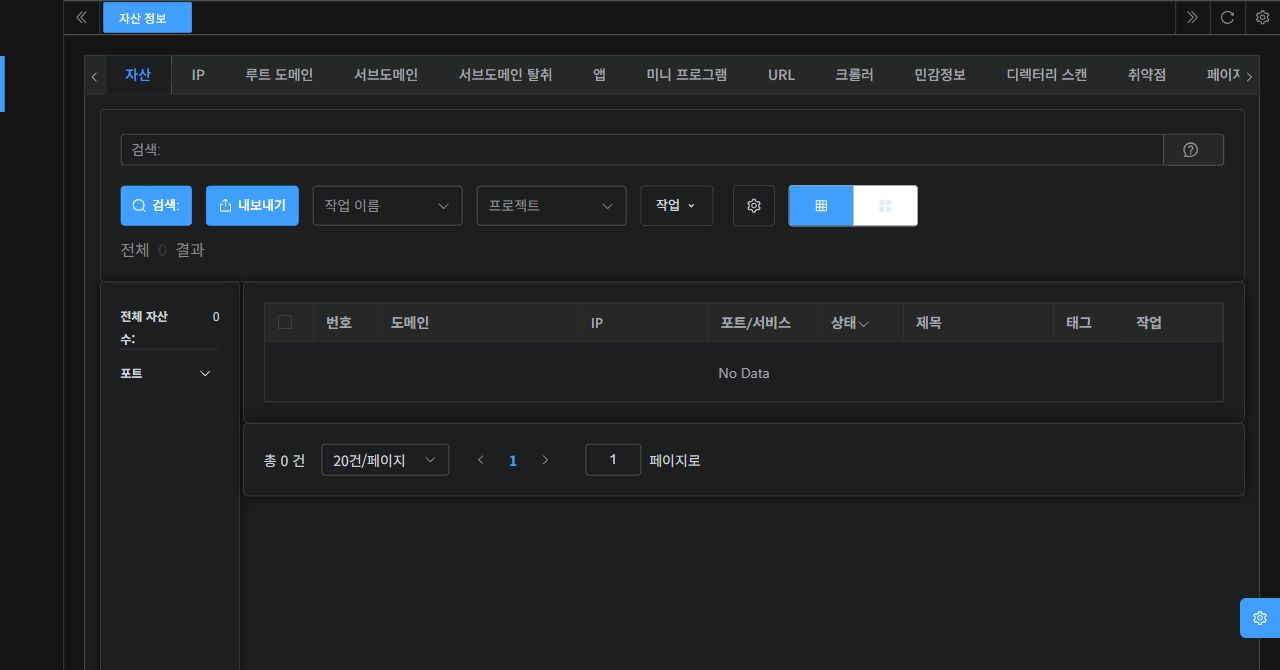
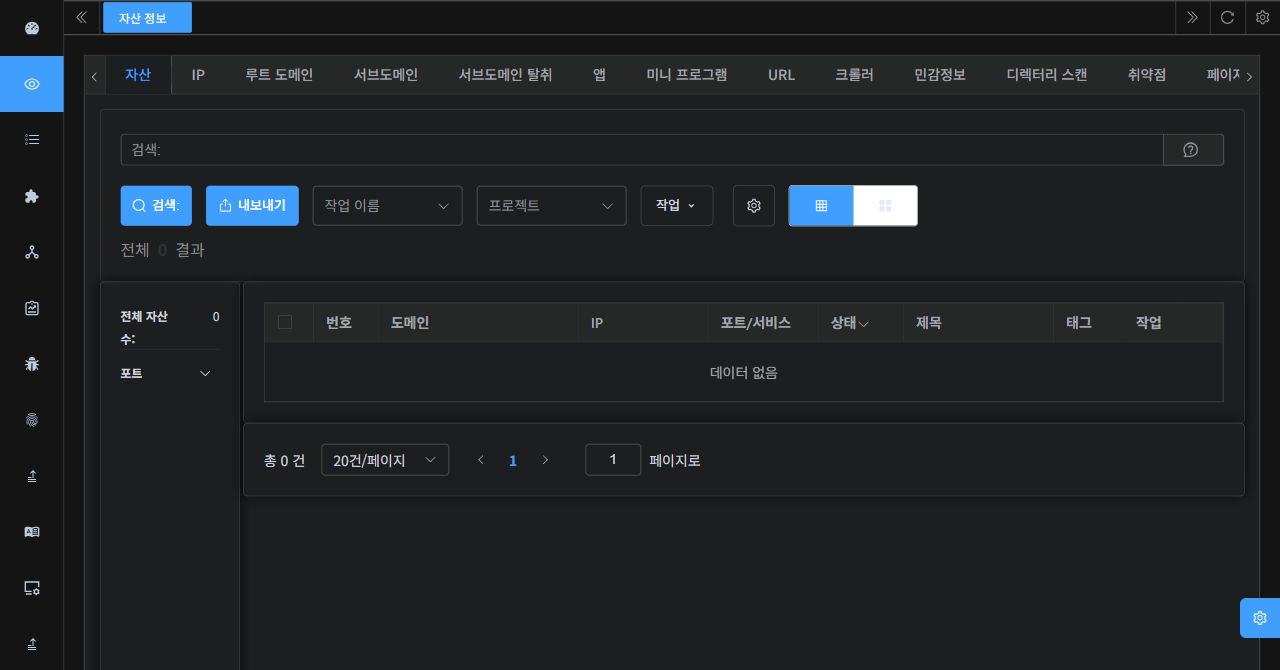
fix(i18n): refine Korean UI translations and layout

diff --git a/frontend/src/views/Project/Project.vue b/frontend/src/views/Project/Project.vue
@@ -99,14 +99,14 @@ const selectedRowIds = ref([])
 
 <template>
   <ContentWrap>
-    <ElRow style="margin-bottom: 20px" :gutter="20">
+    <ElRow class="locale-search-row" style="margin-bottom: 20px">
       <ElCol :span="0.5">
-        <ElText class="mx-1" style="position: relative; top: 8px">{{ t('form.input') }}:</ElText>
+        <ElText class="mx-1">{{ t('common.search') }}:</ElText>
       </ElCol>
       <ElCol :span="5">
         <ElInput v-model="search" :placeholder="t('common.inputText')" style="height: 38px" />
       </ElCol>
-      <ElCol :span="5" style="position: relative; left: 16px">
+      <ElCol :span="5">
         <ElButton
           :loading="loading"
           type="primary"
@@ -117,7 +117,7 @@ const selectedRowIds = ref([])
         />
       </ElCol>
     </ElRow>
-    <ElRow style="margin-bottom: 0%">
+    <ElRow class="locale-actions-row" style="margin-bottom: 0%">
       <ElCol :span="2">
         <div class="mb-10px">
           <ElButton type="primary" @click="addProject">{{ t('project.addProject') }}</ElButton>
@@ -130,8 +130,8 @@ const selectedRowIds = ref([])
               v-model="multipleSelection"
               class="mb-2"
               inline-prompt
-              active-text="Yes"
-              inactive-text="No"
+              :active-text="t('common.on')"
+              :inactive-text="t('common.off')"
             />
           </ElFormItem>
         </ElForm>
@@ -153,7 +153,7 @@ const selectedRowIds = ref([])
       </ElCol>
     </ElRow>
     <ElTabs class="demo-tabs" v-loading="projectListLoading">
-      <ElTabPane :label="`All (${tagNum['All']})`"
+      <ElTabPane :label="`${t('common.all')} (${tagNum['All']})`"
         ><ProjectList
           :tableDataList="allProjectData['All']"
           :getProjectTag="getProjectTag"
@@ -195,4 +195,25 @@ const selectedRowIds = ref([])
   font-size: 32px;
   font-weight: 600;
 }
+</style>
+
+<style scoped>
+.locale-search-row {
+  align-items: center;
+  gap: 12px;
+}
+.locale-search-row > .el-col {
+  flex: 0 0 auto;
+  width: auto;
+  max-width: 100%;
+}
+.locale-search-row > .el-col:nth-child(2) {
+  flex: 0 1 260px;
+  min-width: 0;
+}
+.locale-search-row .el-text {
+  white-space: nowrap;
+}
+.locale-actions-row { align-items: center; gap: 16px; }
+.locale-actions-row > .el-col { flex: 0 0 auto; width: auto; max-width: 100%; }
 </style>

diff --git a/frontend/src/views/Plugins/components/ServerPlugin.vue b/frontend/src/views/Plugins/components/ServerPlugin.vue
@@ -644,22 +644,22 @@ const handleFileChange = (_file, fileList) => {
 
 <template>
   <ContentWrap>
-    <ElRow>
+    <ElRow class="locale-search-row">
       <ElCol :span="1">
-        <ElText class="mx-1" style="position: relative; top: 8px">{{ t('plugin.name') }}:</ElText>
+        <ElText class="mx-1">{{ t('plugin.name') }}:</ElText>
       </ElCol>
       <ElCol :span="5">
         <ElInput v-model="search" :placeholder="t('common.inputText')" style="height: 38px" />
       </ElCol>
-      <ElCol :span="5" style="position: relative; left: 16px">
+      <ElCol :span="5">
         <ElButton type="primary" :icon="searchicon" style="height: 100%" @click="handleSearch"
           >{{ t('common.search') }}</ElButton
         >
       </ElCol>
-      <ElCol :span="1" style="position: relative; left: 32px">
-        <ElText class="mx-1" style="position: relative; top: 8px">{{ t('plugin.key') }}:</ElText>
+      <ElCol :span="1">
+        <ElText class="mx-1">{{ t('plugin.key') }}:</ElText>
       </ElCol>
-      <ElCol :span="5" style="position: relative; left: 32px">
+      <ElCol :span="5">
         <ElInput
           v-model="pluginKey"
           :placeholder="t('plugin.key')"
@@ -851,5 +851,25 @@ const handleFileChange = (_file, fileList) => {
   color: #000;
   padding: 2px 4px;
   border-radius: 2px;
+}
+</style>
+
+<style scoped>
+.locale-search-row {
+  align-items: center;
+  gap: 12px;
+}
+.locale-search-row > .el-col {
+  flex: 0 0 auto;
+  width: auto;
+  max-width: 100%;
+}
+.locale-search-row > .el-col:nth-child(2),
+.locale-search-row > .el-col:nth-child(5) {
+  flex: 0 1 260px;
+  min-width: 0;
+}
+.locale-search-row .el-text {
+  white-space: nowrap;
 }
 </style>

diff --git a/frontend/src/views/Plugins/components/ClientPlugin.vue b/frontend/src/views/Plugins/components/ClientPlugin.vue
@@ -481,22 +481,22 @@ defineExpose({
 
 <template>
   <ContentWrap>
-    <ElRow>
+    <ElRow class="locale-search-row">
       <ElCol :span="1">
-        <ElText class="mx-1" style="position: relative; top: 8px">{{ t('plugin.name') }}:</ElText>
+        <ElText class="mx-1">{{ t('plugin.name') }}:</ElText>
       </ElCol>
       <ElCol :span="5">
         <ElInput v-model="search" :placeholder="t('common.inputText')" style="height: 38px" />
       </ElCol>
-      <ElCol :span="5" style="position: relative; left: 16px">
+      <ElCol :span="5">
         <ElButton type="primary" :icon="searchicon" style="height: 100%" @click="handleSearch"
           >{{ t('common.search') }}</ElButton
         >
       </ElCol>
-      <ElCol :span="1" style="position: relative; left: 32px">
-        <ElText class="mx-1" style="position: relative; top: 8px">{{ t('plugin.key') }}:</ElText>
+      <ElCol :span="1">
+        <ElText class="mx-1">{{ t('plugin.key') }}:</ElText>
       </ElCol>
-      <ElCol :span="5" style="position: relative; left: 32px">
+      <ElCol :span="5">
         <ElInput
           v-model="pluginKey"
           :placeholder="t('plugin.key')"
@@ -691,3 +691,23 @@ defineExpose({
 </template>
 
 <style scoped lang="less"></style>
+
+<style scoped>
+.locale-search-row {
+  align-items: center;
+  gap: 12px;
+}
+.locale-search-row > .el-col {
+  flex: 0 0 auto;
+  width: auto;
+  max-width: 100%;
+}
+.locale-search-row > .el-col:nth-child(2),
+.locale-search-row > .el-col:nth-child(5) {
+  flex: 0 1 260px;
+  min-width: 0;
+}
+.locale-search-row .el-text {
+  white-space: nowrap;
+}
+</style>

diff --git a/frontend/src/views/Dashboard/components/PanelGroup.vue b/frontend/src/views/Dashboard/components/PanelGroup.vue
@@ -41,7 +41,7 @@ getCount()
 
 <template>
   <ElRow justify="space-between" :class="prefixCls" :gutter="20">
-    <ElCol :span="5">
+    <ElCol :xs="24" :sm="12" :md="8" :lg="5">
       <ElCard shadow="hover" class="mb-20px">
         <ElSkeleton :loading="loading" animated :rows="2">
           <template #default>
@@ -70,7 +70,7 @@ getCount()
       </ElCard>
     </ElCol>
 
-    <ElCol :span="5">
+    <ElCol :xs="24" :sm="12" :md="8" :lg="5">
       <ElCard shadow="hover" class="mb-20px">
         <ElSkeleton :loading="loading" animated :rows="2">
           <template #default>
@@ -99,7 +99,7 @@ getCount()
       </ElCard>
     </ElCol>
 
-    <ElCol :span="5">
+    <ElCol :xs="24" :sm="12" :md="8" :lg="5">
       <ElCard shadow="hover" class="mb-20px">
         <ElSkeleton :loading="loading" animated :rows="2">
           <template #default>
@@ -128,7 +128,7 @@ getCount()
       </ElCard>
     </ElCol>
 
-    <ElCol :span="5">
+    <ElCol :xs="24" :sm="12" :md="8" :lg="5">
       <ElCard shadow="hover" class="mb-20px">
         <ElSkeleton :loading="loading" animated :rows="2">
           <template #default>
@@ -156,7 +156,7 @@ getCount()
         </ElSkeleton>
       </ElCard>
     </ElCol>
-    <ElCol :span="4">
+    <ElCol :xs="24" :sm="12" :md="8" :lg="4">
       <ElCard shadow="hover" class="mb-20px">
         <ElSkeleton :loading="loading" animated :rows="2">
           <template #default>

diff --git a/frontend/src/views/Task/Task.vue b/frontend/src/views/Task/Task.vue
@@ -527,14 +527,14 @@ const setMaxHeight = () => {
 
 <template>
   <ContentWrap>
-    <ElRow>
+    <ElRow class="locale-search-row">
       <ElCol :span="1">
-        <ElText class="mx-1" style="position: relative; top: 8px">{{ t('task.taskName') }}:</ElText>
+        <ElText class="mx-1">{{ t('task.taskName') }}:</ElText>
       </ElCol>
       <ElCol :span="5">
         <ElInput v-model="search" :placeholder="t('common.inputText')" style="height: 38px" />
       </ElCol>
-      <ElCol :span="5" style="position: relative; left: 16px">
+      <ElCol :span="5">
         <ElButton type="primary" :icon="searchicon" style="height: 100%" @click="handleSearch"
           >{{ t('common.search') }}</ElButton
         >
@@ -626,3 +626,22 @@ const setMaxHeight = () => {
       getProgressInforunnerid=""
   /></Dialog>
 </template>
+
+<style scoped>
+.locale-search-row {
+  align-items: center;
+  gap: 12px;
+}
+.locale-search-row > .el-col {
+  flex: 0 0 auto;
+  width: auto;
+  max-width: 100%;
+}
+.locale-search-row > .el-col:nth-child(2) {
+  flex: 0 1 260px;
+  min-width: 0;
+}
+.locale-search-row .el-text {
+  white-space: nowrap;
+}
+</style>

diff --git a/frontend/src/axios/config.ts b/frontend/src/axios/config.ts
@@ -1,6 +1,7 @@
 import { AxiosResponse, AxiosRequestHeaders, InternalAxiosRequestConfig } from './types'
 import { ElMessage } from 'element-plus'
 import qs from 'qs'
+import { translateApiMessage } from './translateMessage'
 import { SUCCESS_CODE } from '@/constants'
 import { useUserStoreWithOut } from '@/store/modules/user'
 
@@ -36,11 +37,11 @@ const defaultResponseInterceptors = (response: AxiosResponse) => {
     return response
   } else if (response.data.code === SUCCESS_CODE) {
     if (response?.data?.message) {
-      ElMessage.success(response?.data?.message)
+      ElMessage.success(translateApiMessage(response?.data?.message))
     }
     return response.data
   } else {
-    ElMessage.error(response?.data?.message)
+    ElMessage.error(translateApiMessage(response?.data?.message))
     if (response?.data?.code === 401) {
       const userStore = useUserStoreWithOut()
       userStore.logout()

diff --git a/frontend/src/axios/service.ts b/frontend/src/axios/service.ts
@@ -1,4 +1,5 @@
 import { useI18n } from '@/hooks/web/useI18n'
+import { translateApiMessage } from './translateMessage'
 import axios, { AxiosError } from 'axios'
 import { defaultRequestInterceptors, defaultResponseInterceptors } from './config'
 
@@ -38,8 +39,8 @@ axiosInstance.interceptors.response.use(
       // 显示后端返回的具体错误消息
       const errorMsg =
         responseData.data && responseData.data !== ''
-          ? responseData.message + ':' + responseData.data
-          : responseData.message
+          ? translateApiMessage(responseData.message) + ':' + responseData.data
+          : translateApiMessage(responseData.message)
       ElMessage.error(errorMsg || useI18n().t('localization.requestFailed'))
       if (error.response?.status === 401) {
         const userStore = useUserStoreWithOut()

diff --git a/frontend/src/components/Table/src/Table.vue b/frontend/src/components/Table/src/Table.vue
@@ -123,7 +123,7 @@ export default defineComponent({
       default: () => undefined
     },
     rowKey: propTypes.string.def('id'),
-    emptyText: propTypes.string.def('No Data'),
+    emptyText: propTypes.string,
     defaultExpandAll: propTypes.bool.def(false),
     expandRowKeys: {
       type: Array as PropType<string[]>,
@@ -332,6 +332,7 @@ export default defineComponent({
 
     const getBindValue = computed(() => {
       const bindValue: Recordable = { ...attrs, ...unref(getProps) }
+      bindValue.emptyText = bindValue.emptyText ?? t('common.noData')
       delete bindValue.columns
       delete bindValue.data
       return bindValue

diff --git a/frontend/src/axios/translateMessage.ts b/frontend/src/axios/translateMessage.ts
@@ -1,0 +1,10 @@
+import type { Composer } from 'vue-i18n'
+import { i18n } from '@/plugins/vueI18n'
+
+// Resolve only registered keys. Server prose and unknown keys remain unchanged.
+export const translateApiMessage = (message: unknown): string => {
+  if (typeof message !== 'string' || !i18n) return typeof message === 'string' ? message : ''
+  const { te, t, locale } = i18n.global as unknown as Composer
+  const lang = locale.value
+  return te(message, lang) || te(message, 'en') ? String(t(message)) : message
+}

diff --git a/frontend/src/locales/ko-KR.ts b/frontend/src/locales/ko-KR.ts
@@ -1,4 +1,8 @@
 export default {
+  api: {
+    success: '요청을 처리했습니다.',
+    system: { version: { success: '버전 정보를 조회했습니다.' } }
+  },
   common: {
     changeLanguageMessage:
       '언어를 변경하면 현재 화면과 저장하지 않은 입력 내용이 초기화됩니다. 이미 전송한 요청은 계속 처리될 수 있습니다. 변경하시겠습니까?',

diff --git a/frontend/src/views/Asset/search/Csearch.vue b/frontend/src/views/Asset/search/Csearch.vue
@@ -391,7 +391,7 @@ const openCreateTask = async () => {
   <ContentWrap>
     <!-- <ElRow justify="start">
       <ElCol :span="1">
-        <ElText>{{ t('form.input') }}:</ElText>
+        <ElText>{{ t('common.search') }}:</ElText>
       </ElCol>
       <ElCol :span="5">
         <ElInput v-model="searchParams" :placeholder="t('common.inputText')" style="height: 38px" />

diff --git a/frontend/src/locales/en.ts b/frontend/src/locales/en.ts
@@ -1,4 +1,8 @@
 export default {
+  api: {
+    success: 'Operation successful',
+    system: { version: { success: 'Version information retrieved' } }
+  },
   common: {
     changeLanguageMessage: "Changing the language resets the current view and unsaved input. Requests already sent may still complete. Continue?",
     clearAll: 'Clear All',
